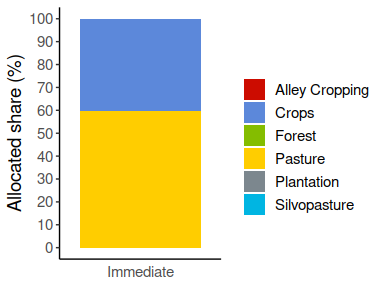
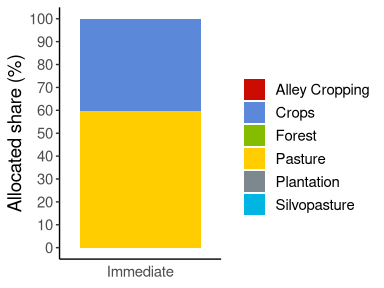
updated readme and calcPerformance description.

diff --git a/README.md b/README.md
@@ -1,44 +1,44 @@
 optimLanduse - Robust Land-cover Optimization
 ================
 
--   <a href="#1-introduction" id="toc-1-introduction">1 Introduction</a>
--   <a href="#2-detailed-description-of-the-functions-in--and-outputs"
-    id="toc-2-detailed-description-of-the-functions-in--and-outputs">2
-    Detailed Description of the Functions’ In- and Outputs</a>
-    -   <a href="#21-initialization-and-input"
-        id="toc-21-initialization-and-input">2.1 Initialization and Input</a>
-    -   <a href="#22-solver-and-list-with-results"
-        id="toc-22-solver-and-list-with-results">2.2 Solver and List with
-        results</a>
-    -   <a href="#23-post-processing" id="toc-23-post-processing">2.3
-        Post-Processing</a>
--   <a href="#3-example-application" id="toc-3-example-application">3
-    Example Application</a>
--   <a href="#4-batch-application-and-sensitivity-analysis"
-    id="toc-4-batch-application-and-sensitivity-analysis">4 Batch
-    Application and Sensitivity Analysis</a>
-    -   <a href="#41-solving-for-multiple-uncertainty-values"
-        id="toc-41-solving-for-multiple-uncertainty-values">4.1 Solving for
-        Multiple Uncertainty Values</a>
-    -   <a
-        href="#42-selecting-specific-indicator-bundles---investigating-the-indicators-sensitivities"
-        id="toc-42-selecting-specific-indicator-bundles---investigating-the-indicators-sensitivities">4.2
-        Selecting Specific Indicator Bundles - Investigating the Indicator’s
-        Sensitivities</a>
-        -   <a href="#421-socio-economic" id="toc-421-socio-economic">4.2.1
-            Socio-economic</a>
-        -   <a href="#422-ecological" id="toc-422-ecological">4.2.2 Ecological</a>
-        -   <a href="#423-immediate-economic-success"
-            id="toc-423-immediate-economic-success">4.2.3 Immediate Economic
-            Success</a>
-    -   <a href="#43-pay-off-matrix" id="toc-43-pay-off-matrix">4.3 Pay-Off
-        Matrix</a>
-    -   <a href="#44-the-use-of-fixdistance"
-        id="toc-44-the-use-of-fixdistance">4.4 The Use of
-        <em>fixDistance</em></a>
--   <a href="#5-suggested-citation" id="toc-5-suggested-citation">5
-    Suggested citation</a>
--   <a href="#6-literature" id="toc-6-literature">6 Literature</a>
+- <a href="#1-introduction" id="toc-1-introduction">1 Introduction</a>
+- <a href="#2-detailed-description-of-the-functions-in--and-outputs"
+  id="toc-2-detailed-description-of-the-functions-in--and-outputs">2
+  Detailed Description of the Functions’ In- and Outputs</a>
+  - <a href="#21-initialization-and-input"
+    id="toc-21-initialization-and-input">2.1 Initialization and Input</a>
+  - <a href="#22-solver-and-list-with-results"
+    id="toc-22-solver-and-list-with-results">2.2 Solver and List with
+    results</a>
+  - <a href="#23-post-processing" id="toc-23-post-processing">2.3
+    Post-Processing</a>
+- <a href="#3-example-application" id="toc-3-example-application">3
+  Example Application</a>
+- <a href="#4-batch-application-and-sensitivity-analysis"
+  id="toc-4-batch-application-and-sensitivity-analysis">4 Batch
+  Application and Sensitivity Analysis</a>
+  - <a href="#41-solving-for-multiple-uncertainty-values"
+    id="toc-41-solving-for-multiple-uncertainty-values">4.1 Solving for
+    Multiple Uncertainty Values</a>
+  - <a
+    href="#42-selecting-specific-indicator-bundles---investigating-the-indicators-sensitivities"
+    id="toc-42-selecting-specific-indicator-bundles---investigating-the-indicators-sensitivities">4.2
+    Selecting Specific Indicator Bundles - Investigating the Indicator’s
+    Sensitivities</a>
+    - <a href="#421-socio-economic" id="toc-421-socio-economic">4.2.1
+      Socio-economic</a>
+    - <a href="#422-ecological" id="toc-422-ecological">4.2.2 Ecological</a>
+    - <a href="#423-immediate-economic-success"
+      id="toc-423-immediate-economic-success">4.2.3 Immediate Economic
+      Success</a>
+  - <a href="#43-pay-off-matrix" id="toc-43-pay-off-matrix">4.3 Pay-Off
+    Matrix</a>
+  - <a href="#44-the-use-of-fixdistance"
+    id="toc-44-the-use-of-fixdistance">4.4 The Use of
+    <em>fixDistance</em></a>
+- <a href="#5-suggested-citation" id="toc-5-suggested-citation">5
+  Suggested citation</a>
+- <a href="#6-literature" id="toc-6-literature">6 Literature</a>
 
 [![](https://www.r-pkg.org/badges/version/optimLanduse)](https://cran.r-project.org/package=optimLanduse)
 [![](http://cranlogs.r-pkg.org/badges/grand-total/optimLanduse?color=green)](https://cran.r-project.org/package=optimLanduse)
@@ -73,7 +73,7 @@ The package opens the approach of Knoke et al. (2016) to the community
 of landscape planners and provides opportunities for systematic or batch
 applications. To further enhance this, we have designed a shiny
 dashboard for the package to get a brief idea of its functionalities and
-to faciliate the usage of the package, see
+to facilitate the usage of the package, see
 <http://rshiny.gwdg.de/apps/optimLanduse/>. The current package version
 optimizes land-cover compositions, but aspects of configuration may be
 added in the future.
@@ -110,117 +110,115 @@ The *initScenario()* function combines the user settings with the data
 into an *optimLanduse*-object ready for solving. The following input
 data are required:
 
--   *coefTable*: The package is only capable of processing a
-    long-oriented type of data structure (Table 1). All combinations of
-    land-cover (landUse) alternatives and indicators must be listed
-    vertically. Each row must contain the average expectation, the
-    uncertainty, and the direction (more is better/ less is better) of
-    the respective land-cover and indicator combination. The column
-    names of the table must exactly follow the nomenclature displayed
-    below. You can also find this format in the built-in example tables
-    **exampleGosling.xlsx** or **exampleEmpty.xlsx**. The help files of
-    the *exampleData()* and *initScenario()* functions contain more
-    details regarding the required data format. An empty template
-    incl. the predefined headings can be accessed via
-    *exampleData(“exampleEmpty.xlsx”)*. All further columns in the
-    coefTable will be dropped.
+- *coefTable*: The package is only capable of processing a long-oriented
+  type of data structure (Table 1). All combinations of land-cover
+  (landUse) alternatives and indicators must be listed vertically. Each
+  row must contain the average expectation, the uncertainty, and the
+  direction (more is better/ less is better) of the respective
+  land-cover and indicator combination. The column names of the table
+  must exactly follow the nomenclature displayed below. You can also
+  find this format in the built-in example tables
+  **exampleGosling.xlsx** or **exampleEmpty.xlsx**. The help files of
+  the *exampleData()* and *initScenario()* functions contain more
+  details regarding the required data format. An empty template
+  incl. the predefined headings can be accessed via
+  *exampleData(“exampleEmpty.xlsx”)*. All further columns in the
+  coefTable will be dropped.
 
 *Table 1: Example of the data set from Gosling et al. (2020) to
 illustrate the required data structure.*
 
 ![](./man/figures/exampleGraphic.png)
 
--   *uValue*: The argument for the uncertainty level
-    (![f_u](https://latex.codecogs.com/png.image?%5Cdpi%7B110%7D&space;%5Cbg_white&space;f_u "f_u"),
-    Equation 4 in Husmann et al., n.d.). A higher uValue reflects a
-    higher risk aversion of the decision maker. See the help file of the
-    *initScenario()* function for more details.
+- *uValue*: The argument for the uncertainty level
+  (![f_u](https://latex.codecogs.com/png.image?%5Cdpi%7B110%7D&space;%5Cbg_white&space;f_u "f_u"),
+  Equation 4 in Husmann et al., n.d.). A higher uValue reflects a higher
+  risk aversion of the decision maker. See the help file of the
+  *initScenario()* function for more details.
 
--   *optimisticRule*: Specifies whether the optimistic contributions of
-    each indicator should be defined either directly by their average,
-    or by their average plus their uncertainty (if more is better) or
-    minus their uncertainty (if less is better). The former option is
-    most frequently used in recent literature and therefore builds the
-    default.
+- *optimisticRule*: Specifies whether the optimistic contributions of
+  each indicator should be defined either directly by their average, or
+  by their average plus their uncertainty (if more is better) or minus
+  their uncertainty (if less is better). The former option is most
+  frequently used in recent literature and therefore builds the default.
 
--   *fixDistance*: Optional numeric value that defines distinct
-    uncertainty levels for the calculation of the uncertainty space and
-    the averaged distances of a certain land-cover composition (see
-    Equation 9 in Husmann et al., n. d.). Passing NA disables
-    fixDistance. The uncertainty space is then defined by the uValue.
+- *fixDistance*: Optional numeric value that defines distinct
+  uncertainty levels for the calculation of the uncertainty space and
+  the averaged distances of a certain land-cover composition (see
+  Equation 9 in Husmann et al., n. d.). Passing NA disables fixDistance.
+  The uncertainty space is then defined by the uValue.
 
 ## 2.2 Solver and List with results
 
 The *solveScenario()* function takes the initialized
 *optimLanduse*-object and only a few optional solver-specific arguments.
 
--   *digitsPrecision*: Provides the only possibility for the user to
-    influence the calculation time. As the solving process has no
-    stochastic element, the calculation times depend almost only on the
-    number of digits calculated only.
+- *digitsPrecision*: Provides the only possibility for the user to
+  influence the calculation time. As the solving process has no
+  stochastic element, the calculation times depend almost only on the
+  number of digits calculated only.
 
--   *lowerBound* & *upperBound*: Optional bounds for the land-cover
-    alternatives. The lower bound must be 0 or a vector with lower
-    bounds in the dimension of the number of land-cover alternatives.
-    The upper bound, respectively, must be 1 or a vector with upper
-    bounds. Choosing 0 and 1 (the defaults) as boundaries for all
-    decision variables, means that no land-cover alternative is forced
-    into the portfolio and that no land-cover alternative is assigned a
-    maximum.
+- *lowerBound* & *upperBound*: Optional bounds for the land-cover
+  alternatives. The lower bound must be 0 or a vector with lower bounds
+  in the dimension of the number of land-cover alternatives. The upper
+  bound, respectively, must be 1 or a vector with upper bounds. Choosing
+  0 and 1 (the defaults) as boundaries for all decision variables, means
+  that no land-cover alternative is forced into the portfolio and that
+  no land-cover alternative is assigned a maximum.
 
 The returned *list with results* contains different information on the
 optimization model. It first repeats the settings of the
 *initScenario()*. These include:
 
--   *scenarioSettings*: A data frame with the *uValue* and the
-    *optimisticRule*.
--   *scenarioTable*: A data frame with one row for each combination of
-    worst-case and best-case outcomes of all indicators (thus the number
-    of rows equals the number of scenarios
-    ![N_S](https://latex.codecogs.com/png.image?%5Cdpi%7B110%7D&space;%5Cbg_white&space;N_S "N_S")
-    in Husmann et al., n.d.). The columns contain relevant calculation
-    steps for the optimization program. *adjSem\** are the uncertainty
-    adjusted indicators
-    (![R\_{liu}](https://latex.codecogs.com/png.image?%5Cdpi%7B110%7D&space;%5Cbg_white&space;R_%7Bliu%7D "R_{liu}")
-    in Husmann et al., n.d.). *minAdjSem* are the minimum uncertainty
-    adjusted indicators
-    ![min(R\_{liu})](https://latex.codecogs.com/png.image?%5Cdpi%7B110%7D&space;%5Cbg_white&space;min%28R_%7Bliu%7D%29 "min(R_{liu})")
-    and
-    ![max(R\_{liu})](https://latex.codecogs.com/png.image?%5Cdpi%7B110%7D&space;%5Cbg_white&space;max%28R_%7Bliu%7D%29 "max(R_{liu})")
-    the maximum uncertainty adjusted indicators. diffAdjSem are the
-    range between these uncertainty adjusted indicators
-    ![\delta\_{\text{min,max}\_{iu}}](https://latex.codecogs.com/png.image?%5Cdpi%7B110%7D&space;%5Cbg_white&space;%5Cdelta_%7B%5Ctext%7Bmin%2Cmax%7D_%7Biu%7D%7D "\delta_{\text{min,max}_{iu}}").
--   *coefObjective*: The optimization program is translated into a
-    linear program with
-    ![N_L](https://latex.codecogs.com/png.image?%5Cdpi%7B110%7D&space;%5Cbg_white&space;N_L "N_L")
-    (number of land-cover options) coefficients for the inner solution.
-    The inner solution is solved using the *lpSolveAPI()* function of
-    the **lpSolveApi** package. *coefObjective* is the data frame that
-    contains these coefficients.
--   *coefConstraint*: A data frame with the respective constraints for
-    the inner solution solved by *lpsolveAPI()*.
--   *distance*: The distance of each scenario to its own theoretically
-    best-achievable contribution (reference). See Equation 3 in Husmann
-    et al. (n.d.).
+- *scenarioSettings*: A data frame with the *uValue* and the
+  *optimisticRule*.
+- *scenarioTable*: A data frame with one row for each combination of
+  worst-case and best-case outcomes of all indicators (thus the number
+  of rows equals the number of scenarios
+  ![N_S](https://latex.codecogs.com/png.image?%5Cdpi%7B110%7D&space;%5Cbg_white&space;N_S "N_S")
+  in Husmann et al., n.d.). The columns contain relevant calculation
+  steps for the optimization program. *adjSem\** are the uncertainty
+  adjusted indicators
+  (![R\_{liu}](https://latex.codecogs.com/png.image?%5Cdpi%7B110%7D&space;%5Cbg_white&space;R_%7Bliu%7D "R_{liu}")
+  in Husmann et al., n.d.). *minAdjSem* are the minimum uncertainty
+  adjusted indicators
+  ![min(R\_{liu})](https://latex.codecogs.com/png.image?%5Cdpi%7B110%7D&space;%5Cbg_white&space;min%28R_%7Bliu%7D%29 "min(R_{liu})")
+  and
+  ![max(R\_{liu})](https://latex.codecogs.com/png.image?%5Cdpi%7B110%7D&space;%5Cbg_white&space;max%28R_%7Bliu%7D%29 "max(R_{liu})")
+  the maximum uncertainty adjusted indicators. diffAdjSem are the range
+  between these uncertainty adjusted indicators
+  ![\delta\_{\text{min,max}\_{iu}}](https://latex.codecogs.com/png.image?%5Cdpi%7B110%7D&space;%5Cbg_white&space;%5Cdelta_%7B%5Ctext%7Bmin%2Cmax%7D_%7Biu%7D%7D "\delta_{\text{min,max}_{iu}}").
+- *coefObjective*: The optimization program is translated into a linear
+  program with
+  ![N_L](https://latex.codecogs.com/png.image?%5Cdpi%7B110%7D&space;%5Cbg_white&space;N_L "N_L")
+  (number of land-cover options) coefficients for the inner solution.
+  The inner solution is solved using the *lpSolveAPI()* function of the
+  **lpSolveApi** package. *coefObjective* is the data frame that
+  contains these coefficients.
+- *coefConstraint*: A data frame with the respective constraints for the
+  inner solution solved by *lpsolveAPI()*.
+- *distance*: The distance of each scenario to its own theoretically
+  best-achievable contribution (reference). See Equation 3 in Husmann et
+  al. (n.d.).
 
 This is followed by a summary of the results of the optimization:
 
--   ![\beta](https://latex.codecogs.com/png.image?%5Cdpi%7B110%7D&space;%5Cbg_white&space;%5Cbeta "\beta"):
-    The maximum distance of the worst performing scenario (Equation 1 in
-    Husmann et al., n.d.).
--   *landUse*: The resulting land-cover composition after the
-    optimization.
+- ![\beta](https://latex.codecogs.com/png.image?%5Cdpi%7B110%7D&space;%5Cbg_white&space;%5Cbeta "\beta"):
+  The maximum distance of the worst performing scenario (Equation 1 in
+  Husmann et al., n.d.).
+- *landUse*: The resulting land-cover composition after the
+  optimization.
 
 ## 2.3 Post-Processing
 
--   *calcPerformance()*: Attaches the portfolio performances of all
-    indicators and scenarios as a data frame to the soved *optimLanduse*
-    object. The data can be used for straightforward visualization of
-    the performance (e.g. Fig. 3). The performance is defined as the
-    relative distance to the maximum achievable level for each indicator
-    and uncertainty scenario. It calculates as 1 -
-    ![d\_{iu}](https://latex.codecogs.com/png.image?%5Cdpi%7B110%7D&space;%5Cbg_white&space;d_%7Biu%7D "d_{iu}")
-    (Equation 8, Husmann et al., n.d.)
+- *calcPerformance()*: Attaches the portfolio performances of all
+  indicators and scenarios as a data frame to the soved *optimLanduse*
+  object. The data can be used for straightforward visualization of the
+  performance (e.g. Fig. 3). The performance is defined as the relative
+  distance to the maximum achievable level for each indicator and
+  uncertainty scenario. It calculates as 1 -
+  ![d\_{iu}](https://latex.codecogs.com/png.image?%5Cdpi%7B110%7D&space;%5Cbg_white&space;d_%7Biu%7D "d_{iu}")
+  (Equation 8, Husmann et al., n.d.)
 
 # 3 Example Application
 
@@ -295,20 +293,17 @@ result <- solveScenario(x = init)
 
 # Visualize the farm composition
 result$landUse %>% gather(key = landCoverOption,
-                          value = landCoverShare, 1 : 6) %>% 
-  mutate(portfolio = "Optimal farm composition",
-         landCoverShare = landCoverShare * 100) %>% 
-  ggplot(aes(y = landCoverShare, x = portfolio, fill = landCoverOption)) + 
-  geom_bar(position = "stack", stat = "identity") + 
-  theme_classic() +
-  theme(text = element_text(size = 14)) +
-  scale_fill_startrek() +
-  labs(y = "Allocated share (%)") +
+                          value = landCoverShare) %>% 
+  ggplot(aes(y = landCoverShare*100, x="", fill = landCoverOption)) + 
+   geom_bar(position = "stack", stat = "identity") + 
+   theme_classic() +
+   scale_fill_startrek() +
+   xlab("Optimal land-use composition")+
+   ylab( "Allocated share (%)") +
+   theme(text = element_text(size = 14),
+         legend.title=element_blank()) +
   scale_y_continuous(breaks = seq(0, 100, 10), 
-                     limits = c(0, 100)) +
-  theme(axis.title.x = element_blank(),
-        axis.ticks.x = element_blank()) + 
-  guides(fill=guide_legend(title = ""))
+                     limits = c(0, 100))
 ```
 
 <img src="README_files/figure-gfm/unnamed-chunk-4-1.png" style="display: block; margin: auto;" />
